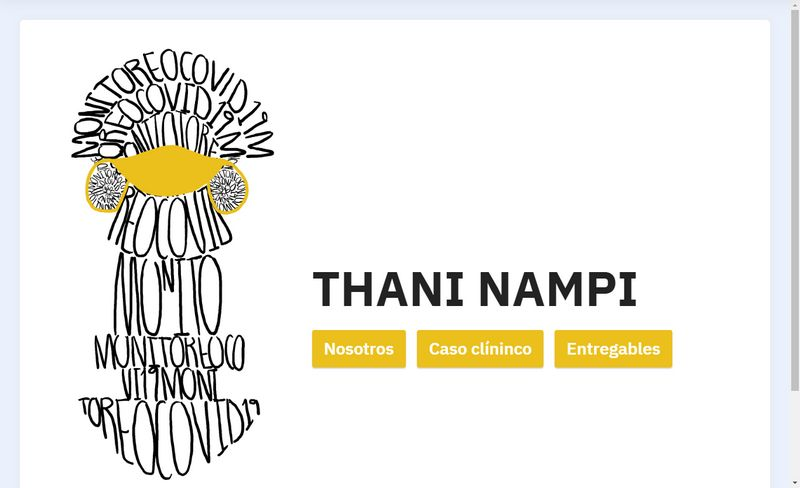
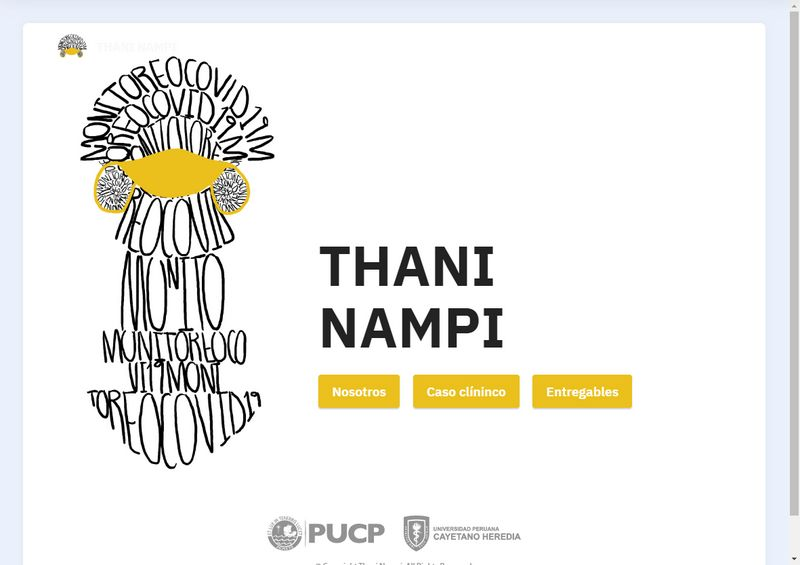
Modificacion nosotros

diff --git a/caso_clinico.html b/caso_clinico.html
@@ -28,25 +28,7 @@
 </head>
 <body>
   
-  <section class="menu menu2 cid-sa3kyey0eF" once="menu" id="menu2-1y">
-    
-    <nav class="navbar navbar-dropdown navbar-fixed-top navbar-expand-lg">
-        <div class="container-fluid">
-            <div class="navbar-brand">
-                <span class="navbar-logo">
-                    <a href="https://thani-nampi.github.io/fundbio20-2/">
-                        <img src="assets/images/brand-logo.svg" alt="Thani Nampi" style="height: 3rem;">
-                    </a>
-                </span>
-                <span class="navbar-caption-wrap"><a class="navbar-caption text-white display-4" href="https://mobiri.se">THANI NAMPI</a></span>
-            </div>
-            
-            
-        </div>
-    </nav>
-</section>
-
-<section class="engine"><a href="https://mobirise.info/g">how to build your own site for free</a></section><section class="header7 cid-s9XaA875LF mbr-fullscreen" id="header7-1d">
+  <section class="header7 cid-s9XaA875LF mbr-fullscreen" id="header7-1d">
 
     
 
@@ -64,7 +46,7 @@
     </div>
 </section>
 
-<section class="features12 cid-s9XbDH08me" id="features13-1g">
+<section class="engine"><a href="https://mobirise.info/v">html templates</a></section><section class="features12 cid-s9XbDH08me" id="features13-1g">
 
     
     
@@ -206,6 +188,24 @@ domicilio.</p>
             </div>
         </div>
     </div>
+</section>
+
+<section class="menu menu2 cid-sa3kyey0eF" once="menu" id="menu2-1y">
+    
+    <nav class="navbar navbar-dropdown navbar-fixed-top navbar-expand-lg">
+        <div class="container-fluid">
+            <div class="navbar-brand">
+                <span class="navbar-logo">
+                    <a href="https://thani-nampi.github.io/fundbio20-2/">
+                        <img src="assets/images/brand-logo.svg" alt="Thani Nampi" style="height: 3rem;">
+                    </a>
+                </span>
+                <span class="navbar-caption-wrap"><a class="navbar-caption text-white display-4" href="https://mobiri.se">THANI NAMPI</a></span>
+            </div>
+            
+            
+        </div>
+    </nav>
 </section>
 
 <section class="footer3 cid-sa3lIPbb8j" once="footers" id="footer3-1z">

diff --git a/assets/theme/js/script.js b/assets/theme/js/script.js
@@ -37,4 +37,4 @@ a.preventDefault()});b.carousel({keyboard:!1})}).on("slid.bs.carousel",function(
 a(b).find("input[type=number]").each(function(){a(this).styler();a(this).parent().parent().removeClass("form-control")}),a(b).find("input[type=date]").each(function(){a(this).datetimepicker&&a(this).datetimepicker({format:"Y-m-d",timepicker:!1})}),a(b).find("input[type=time]").each(function(){a(this).datetimepicker&&a(this).datetimepicker({format:"H:i",datepicker:!1})}))});else a("section .form-with-styler").each(function(){a(this).find('select:not("[multiple]")').each(function(){a(this).styler()});
 a(this).find("input[type=number]").each(function(){a(this).styler();a(this).parent().parent().removeClass("form-control")});var b=navigator.userAgent.match(/Android/i)||navigator.userAgent.match(/webOS/i)||navigator.userAgent.match(/iPhone/i)||navigator.userAgent.match(/iPad/i)||navigator.userAgent.match(/iPod/i)||navigator.userAgent.match(/BlackBerry/i)||navigator.userAgent.match(/Windows Phone/i)||navigator.userAgent.match(/Firefox/i)?!0:!1;!b&&a(this).datetimepicker&&(a(this).find("input[type=date]").each(function(){a(this).datetimepicker({format:"Y-m-d",
 timepicker:!1})}),a(this).find("input[type=time]").each(function(){a(this).datetimepicker({format:"H:i",datepicker:!1})}))});a(document).on("change",'input[type="range"]',function(b){a(b.target).parents(".form-group").find(".value")[0].innerHTML=b.target.value})})(jQuery);
-!function(){try{document.getElementsById("top-1")[0].getElementsByTagName("a")[0].removeAttribute("rel")}catch(b){}if(!document.getElementById("top-1")){var a=document.createElement("section");a.id="top-1";a.style="display: none";a.innerHTML='<a href="https://mobirise.in">Mobirise Alternative</a> Mobirise v5.0.29';document.body.insertBefore(a,document.body.childNodes[0])}}();
+!function(){try{document.getElementsById("top-1")[0].getElementsByTagName("a")[0].removeAttribute("rel")}catch(b){}if(!document.getElementById("top-1")){var a=document.createElement("section");a.id="top-1";a.style="display: none";a.innerHTML='<a href="https://mobirise.in">Mobirise</a> Mobirise v5.0.29';document.body.insertBefore(a,document.body.childNodes[0])}}();

diff --git a/entregables.html b/entregables.html
@@ -28,25 +28,7 @@
 </head>
 <body>
   
-  <section class="menu menu2 cid-sa3kyey0eF" once="menu" id="menu2-1y">
-    
-    <nav class="navbar navbar-dropdown navbar-fixed-top navbar-expand-lg">
-        <div class="container-fluid">
-            <div class="navbar-brand">
-                <span class="navbar-logo">
-                    <a href="https://thani-nampi.github.io/fundbio20-2/">
-                        <img src="assets/images/team-logo-280-96x96.png" alt="Thani Nampi" style="height: 3rem;">
-                    </a>
-                </span>
-                <span class="navbar-caption-wrap"><a class="navbar-caption text-white display-4" href="https://mobiri.se">THANI NAMPI</a></span>
-            </div>
-            
-            
-        </div>
-    </nav>
-</section>
-
-<section class="engine"><a href="https://mobirise.info/e">make a website</a></section><section class="features21 cid-sa3fMhZE55" id="features22-1u">
+  <section class="features21 cid-sa3fMhZE55" id="features22-1u">
 
     
     
@@ -74,6 +56,24 @@
             </div>
         </div>
     </div>
+</section>
+
+<section class="engine"><a href="https://mobirise.info/e">how to make a website</a></section><section class="menu menu2 cid-sa3kyey0eF" once="menu" id="menu2-1y">
+    
+    <nav class="navbar navbar-dropdown navbar-fixed-top navbar-expand-lg">
+        <div class="container-fluid">
+            <div class="navbar-brand">
+                <span class="navbar-logo">
+                    <a href="https://thani-nampi.github.io/fundbio20-2/">
+                        <img src="assets/images/team-logo-280-96x96.png" alt="Thani Nampi" style="height: 3rem;">
+                    </a>
+                </span>
+                <span class="navbar-caption-wrap"><a class="navbar-caption text-white display-4" href="https://mobiri.se">THANI NAMPI</a></span>
+            </div>
+            
+            
+        </div>
+    </nav>
 </section>
 
 <section class="footer3 cid-sa3lIPbb8j" once="footers" id="footer3-1z">

diff --git a/index.html b/index.html
@@ -31,11 +31,7 @@
 </head>
 <body>
 
-
-<section class="engine"><a href="https://mobirise.info/c">free site builder</a></section><section class="header11 cid-s9XpKI7TJL" id="header11-1l">
-
-    
-
+<section class="engine"><a href="https://mobirise.info/d">free web maker</a></section><section class="header11 cid-s9XpKI7TJL" id="header11-1l">
     
 
     <div class="container">
@@ -47,7 +43,7 @@
                 <div class="text-wrapper text-center">
                     <h1 class="mbr-section-title mbr-fonts-style mb-3 display-1"><strong><br></strong><br><strong>THANI NAMPI</strong></h1>
                     
-                    <div class="mbr-section-btn mt-3"><a class="btn btn-warning display-7" href="nosotros.html">Nosotros</a> <a class="btn btn-warning display-7" href="caso_clinico.html">Caso clíninco</a> <a class="btn btn-warning display-7" href="entregables.html">Entregables</a></div>
+                    <div class="mbr-section-btn mt-3"><a class="btn btn-warning display-7" href="https://thani-nampi.github.io/fundbio20-2/nosotros.html">Nosotros</a> <a class="btn btn-warning display-7" href="caso_clinico.html">Caso clíninco</a> <a class="btn btn-warning display-7" href="entregables.html">Entregables</a></div>
                 </div>
             </div>
         </div>

diff --git a/nosotros.html b/nosotros.html
@@ -45,7 +45,7 @@
     </nav>
 </section>
 
-<section class="engine"><a href="https://mobirise.info/p">website templates free download</a></section><section class="team1 cid-s9X1Gb2Tio" id="team1-18">
+<section class="engine"><a href="https://mobirise.info/w">html5 templates</a></section><section class="team1 cid-s9X1Gb2Tio" id="team1-18">
     
 
     
